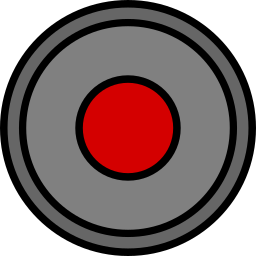
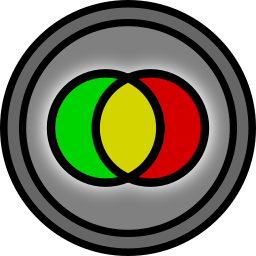
design improvements

diff --git a/src/main/java/br/net/pin/Interface.java b/src/main/java/br/net/pin/Interface.java
@@ -30,7 +30,7 @@ import javax.swing.SwingUtilities;
 
 public class Interface {
 
-  private final ImageIcon iconLogo = new ImageIcon(getClass().getResource("skmotion.png"));
+  private final ImageIcon iconLogo = new ImageIcon(getClass().getResource("logo.png"));
   private final ImageIcon iconBlue = new ImageIcon(getClass().getResource("blue.png"));
   private final ImageIcon iconGreen = new ImageIcon(getClass().getResource("green.png"));
   private final ImageIcon iconRed = new ImageIcon(getClass().getResource("red.png"));
@@ -374,5 +374,4 @@ public class Interface {
     sb.append(seconds).append("s");
     return sb.toString();
   }
-
 }

diff --git a/src/main/java/br/net/pin/SkMotion.java b/src/main/java/br/net/pin/SkMotion.java
@@ -1,5 +1,7 @@
 package br.net.pin;
 
+import java.awt.RenderingHints;
+
 import javax.swing.SwingUtilities;
 import javax.swing.UIManager;
 
@@ -10,6 +12,8 @@ public class SkMotion {
     SwingUtilities.invokeLater(() -> {
       try {
         UIManager.setLookAndFeel(new FlatDarculaLaf());
+        UIManager.getLookAndFeelDefaults().put(RenderingHints.KEY_TEXT_ANTIALIASING,
+            RenderingHints.VALUE_TEXT_ANTIALIAS_ON);
         new Interface().show();
       } catch (Exception e) {
         e.printStackTrace();
